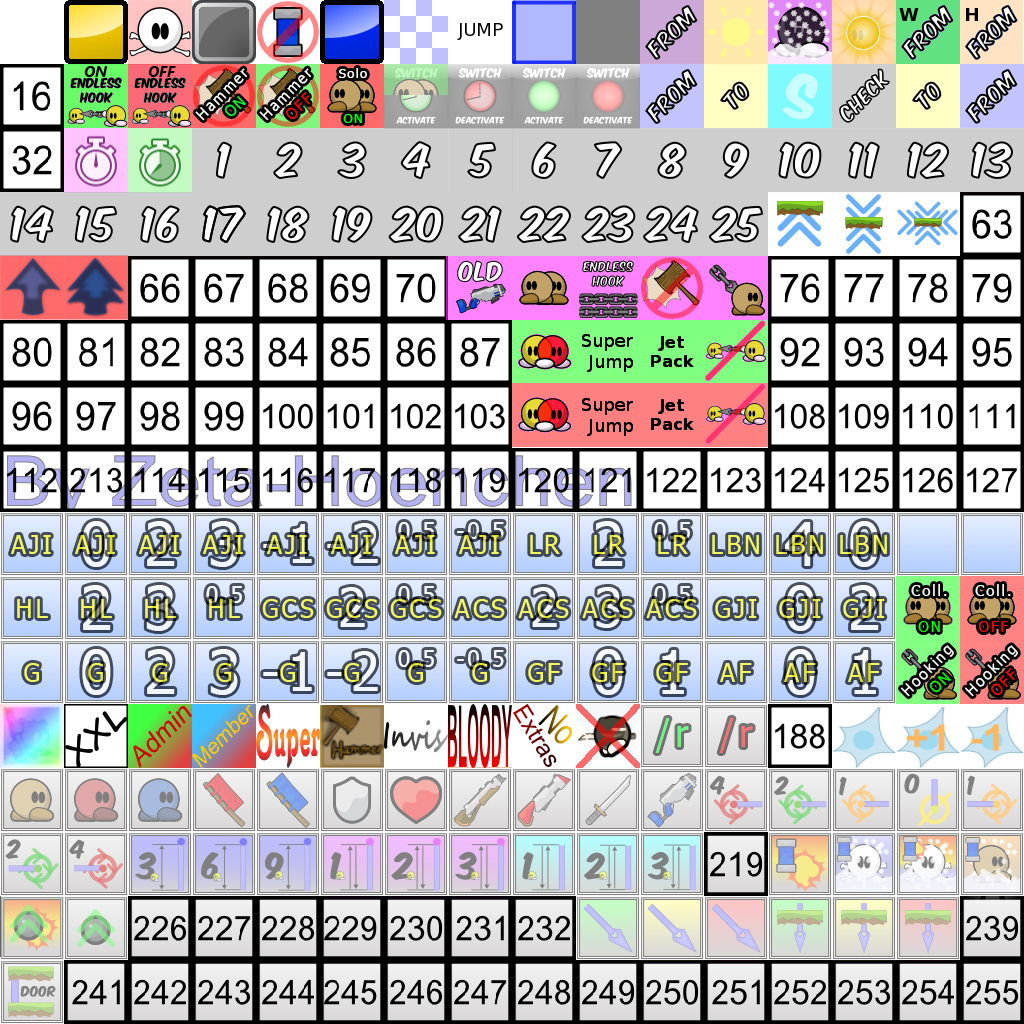
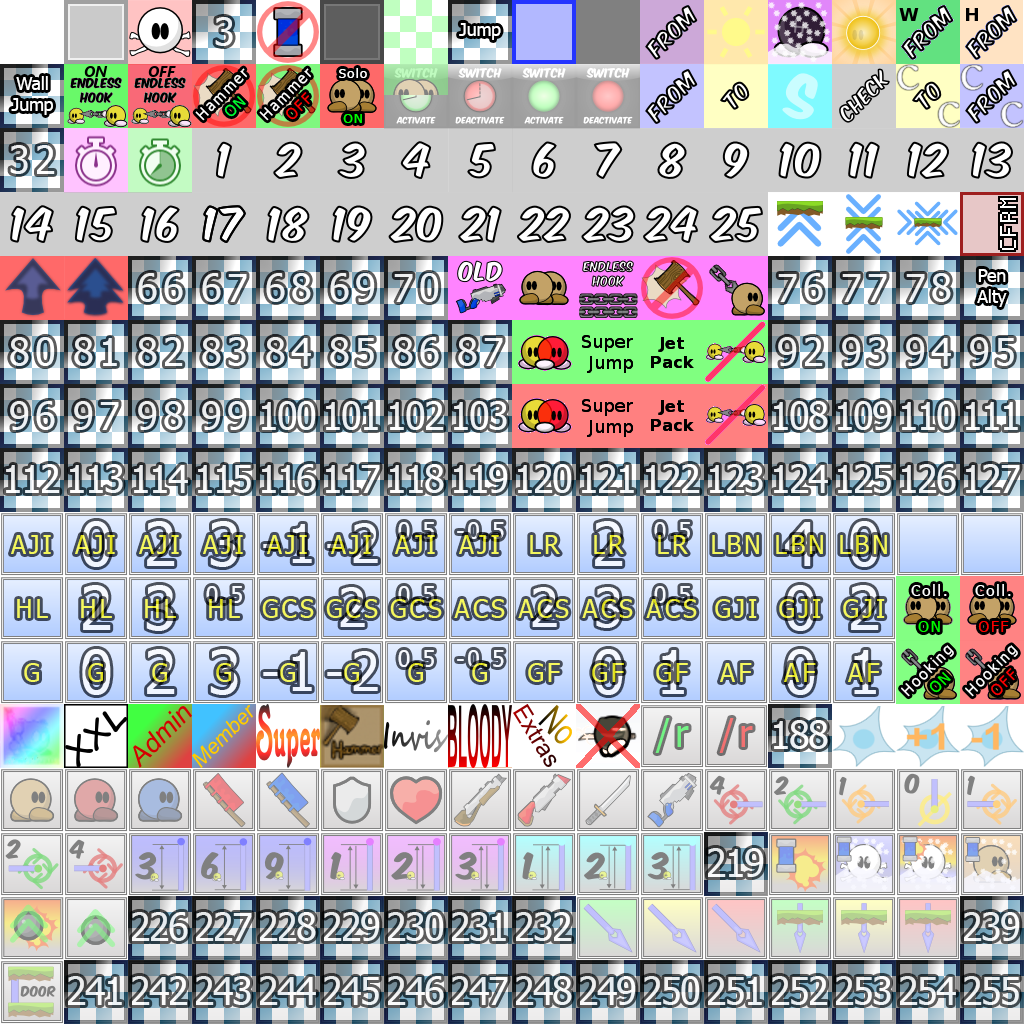
Improved maphack

diff --git a/src/game/client/components/menus_settings.cpp b/src/game/client/components/menus_settings.cpp
@@ -1046,7 +1046,7 @@ void CMenus::RenderSettings(CUIRect MainView)
 void CMenus::RenderSettingsDDRace(CUIRect MainView)
 
 {
-	CUIRect Button;
+	CUIRect Button, MapBckgCol;
 	MainView.VSplitLeft(300.0f, &MainView, 0);
 
 	MainView.HSplitTop(20.0f, &Button, &MainView);
@@ -1130,5 +1130,56 @@ void CMenus::RenderSettingsDDRace(CUIRect MainView)
 	{
 		g_Config.m_ClShowhudHealthAmmo ^= 1;
 	}
+	
+	MainView.HSplitBottom(120.0f, &MainView, &MapBckgCol);
+	RenderTools()->DrawUIRect(&MapBckgCol, vec4(1,1,1,0.25f), CUI::CORNER_ALL, 5.0f);
+	MapBckgCol.Margin(10.0f, &MapBckgCol);	
+	TextRender()->Text(0, MapBckgCol.x, MapBckgCol.y-5, 18, Localize("Map background"), -1);
+	MapBckgCol.HSplitBottom(90.0f, 0, &MapBckgCol);
+	
+	// Map background
+	{
+		CUIRect Label;
+		MapBckgCol.VSplitLeft(10.0f, 0, &MapBckgCol);
 
+		int *pColor;
+		pColor = &g_Config.m_ClMapBackground;
+
+		const char *paLabels[] = {
+			Localize("Red"),
+			Localize("Green"),
+			Localize("Blue")};
+		static int s_aColorSlider[3] = {0};
+
+		MapBckgCol.VSplitLeft(10.0f, 0, &MapBckgCol);
+		MapBckgCol.HSplitBottom(82.5f, 0, &MapBckgCol);
+
+		int PrevColor = *pColor;
+		int Color = 0;
+		static float s_FadeScroll[6][3] = {{0}};
+		for(int s = 0; s < 3; s++)
+		{
+			MapBckgCol.HSplitTop(20.0f, &Label, &MapBckgCol);
+			Label.VSplitLeft(100.0f, &Label, &Button);
+			Button.HMargin(2.0f, &Button);
+
+			float k = ((PrevColor>>((2-s)*8))&0xff)  / 255.0f;
+			k = DoScrollbarH(&s_aColorSlider[s], &Button, k);
+			Color <<= 8;
+			Color += clamp((int)(k*255), 0, 255);
+			UI()->DoLabelScaled(&Label, paLabels[s], 14.0f, -1);
+		}
+		
+		*pColor = Color;
+		
+		MapBckgCol.HSplitBottom(0.0f, &Label, &MapBckgCol);
+		Label.VSplitLeft(0.0f, &Label, &Button);
+		Button.HMargin(2.0f, &Button);
+				
+		static int s_ResetButton = 0;
+		if(DoButton_Menu(&s_ResetButton, Localize("Reset color"), 0, &Button))
+		{
+			g_Config.m_ClMapBackground = 7777777;
+		}		
+	}
 }

diff --git a/src/engine/shared/config_variables.h b/src/engine/shared/config_variables.h
@@ -199,9 +199,7 @@ MACRO_CONFIG_INT(SvResetPickus, sv_reset_pickups, 0, 0, 1, CFGFLAG_SERVER, "Whet
 MACRO_CONFIG_INT(ClShowOthers, cl_show_others, 0, 0, 1, CFGFLAG_CLIENT|CFGFLAG_SAVE, "Show players in other teams")
 MACRO_CONFIG_INT(ClShowEntities, cl_show_entities, 0, 0, 1, CFGFLAG_CLIENT, "Cheat to show game tiles, background: 1 = blue, 2 = black")
 MACRO_CONFIG_INT(ClShowQuads, cl_show_quads, 1, 0, 1, CFGFLAG_CLIENT|CFGFLAG_SAVE, "Show quads")
-MACRO_CONFIG_INT(ClBckRed, cl_bck_red, 30, 0, 100, CFGFLAG_SAVE|CFGFLAG_CLIENT, "Red for Background")
-MACRO_CONFIG_INT(ClBckGreen, cl_bck_green, 30, 0, 100, CFGFLAG_SAVE|CFGFLAG_CLIENT, "Green for Background")
-MACRO_CONFIG_INT(ClBckBlue, cl_bck_blue, 60, 0, 100, CFGFLAG_SAVE|CFGFLAG_CLIENT, "Blue for Background")
+MACRO_CONFIG_INT(ClMapBackground, cl_map_background, 7777777, 0, 0xFFFFFF, CFGFLAG_SAVE|CFGFLAG_CLIENT, "Background color for maphack")
 MACRO_CONFIG_INT(ClLocalPredict, cl_local_predict, 1, 0, 1, CFGFLAG_CLIENT, "Use client data for local client")
 MACRO_CONFIG_INT(SvShowOthers, sv_show_others, 1, 0, 1, CFGFLAG_SERVER, "Whether players can user the command showothers or not")
 MACRO_CONFIG_INT(SvMaxAfkTime, sv_max_afk_time, 0, 0, 9999, CFGFLAG_SERVER, "The time in seconds a player is allowed to be afk (0 = disabled)")

diff --git a/src/engine/client/client.cpp b/src/engine/client/client.cpp
@@ -779,11 +779,8 @@ const char *CClient::ErrorString()
 
 void CClient::Render()
 {
-	if(g_Config.m_ClShowEntities || !g_Config.m_ClShowQuads)
-		Graphics()->Clear(g_Config.m_ClBckRed*0.01f,g_Config.m_ClBckGreen*0.01f,g_Config.m_ClBckBlue*0.01f);
-	else if(g_Config.m_GfxClear)
-		Graphics()->Clear(0.5,0.5,0.5);
-
+	if(g_Config.m_ClShowEntities || !g_Config.m_ClShowQuads || g_Config.m_GfxClear)
+		Graphics()->Clear(((g_Config.m_ClMapBackground>>16)&0xff)/255.0f, ((g_Config.m_ClMapBackground>>8)&0xff)/255.0f, (g_Config.m_ClMapBackground&0xff)/255.0f);
 	GameClient()->OnRender();
 	DebugRender();
 }
